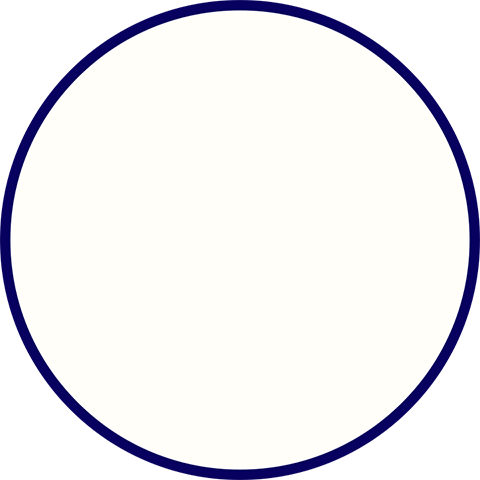
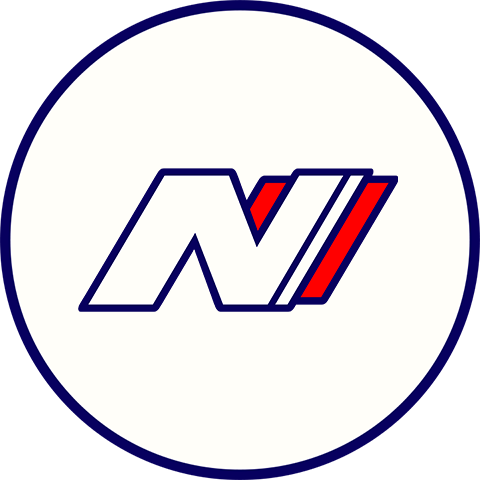
Non NPE pic

Changed region(s): [[0.1562, 0.3438, 0.8438, 0.6562]]

diff --git a/progress/app.js b/progress/app.js
@@ -42,6 +42,9 @@ function renderList2(doc) {
     } else if (det2.innerHTML == "NPE DarkBlue Flag") {
         document.getElementById('nhh').src = 'images/pic03.png';
     }
+    else {
+        document.getElementById('nhh').src = 'images/pic0.png';
+    }
 
     //Left badge
     let li2g = document.createElement('p');
